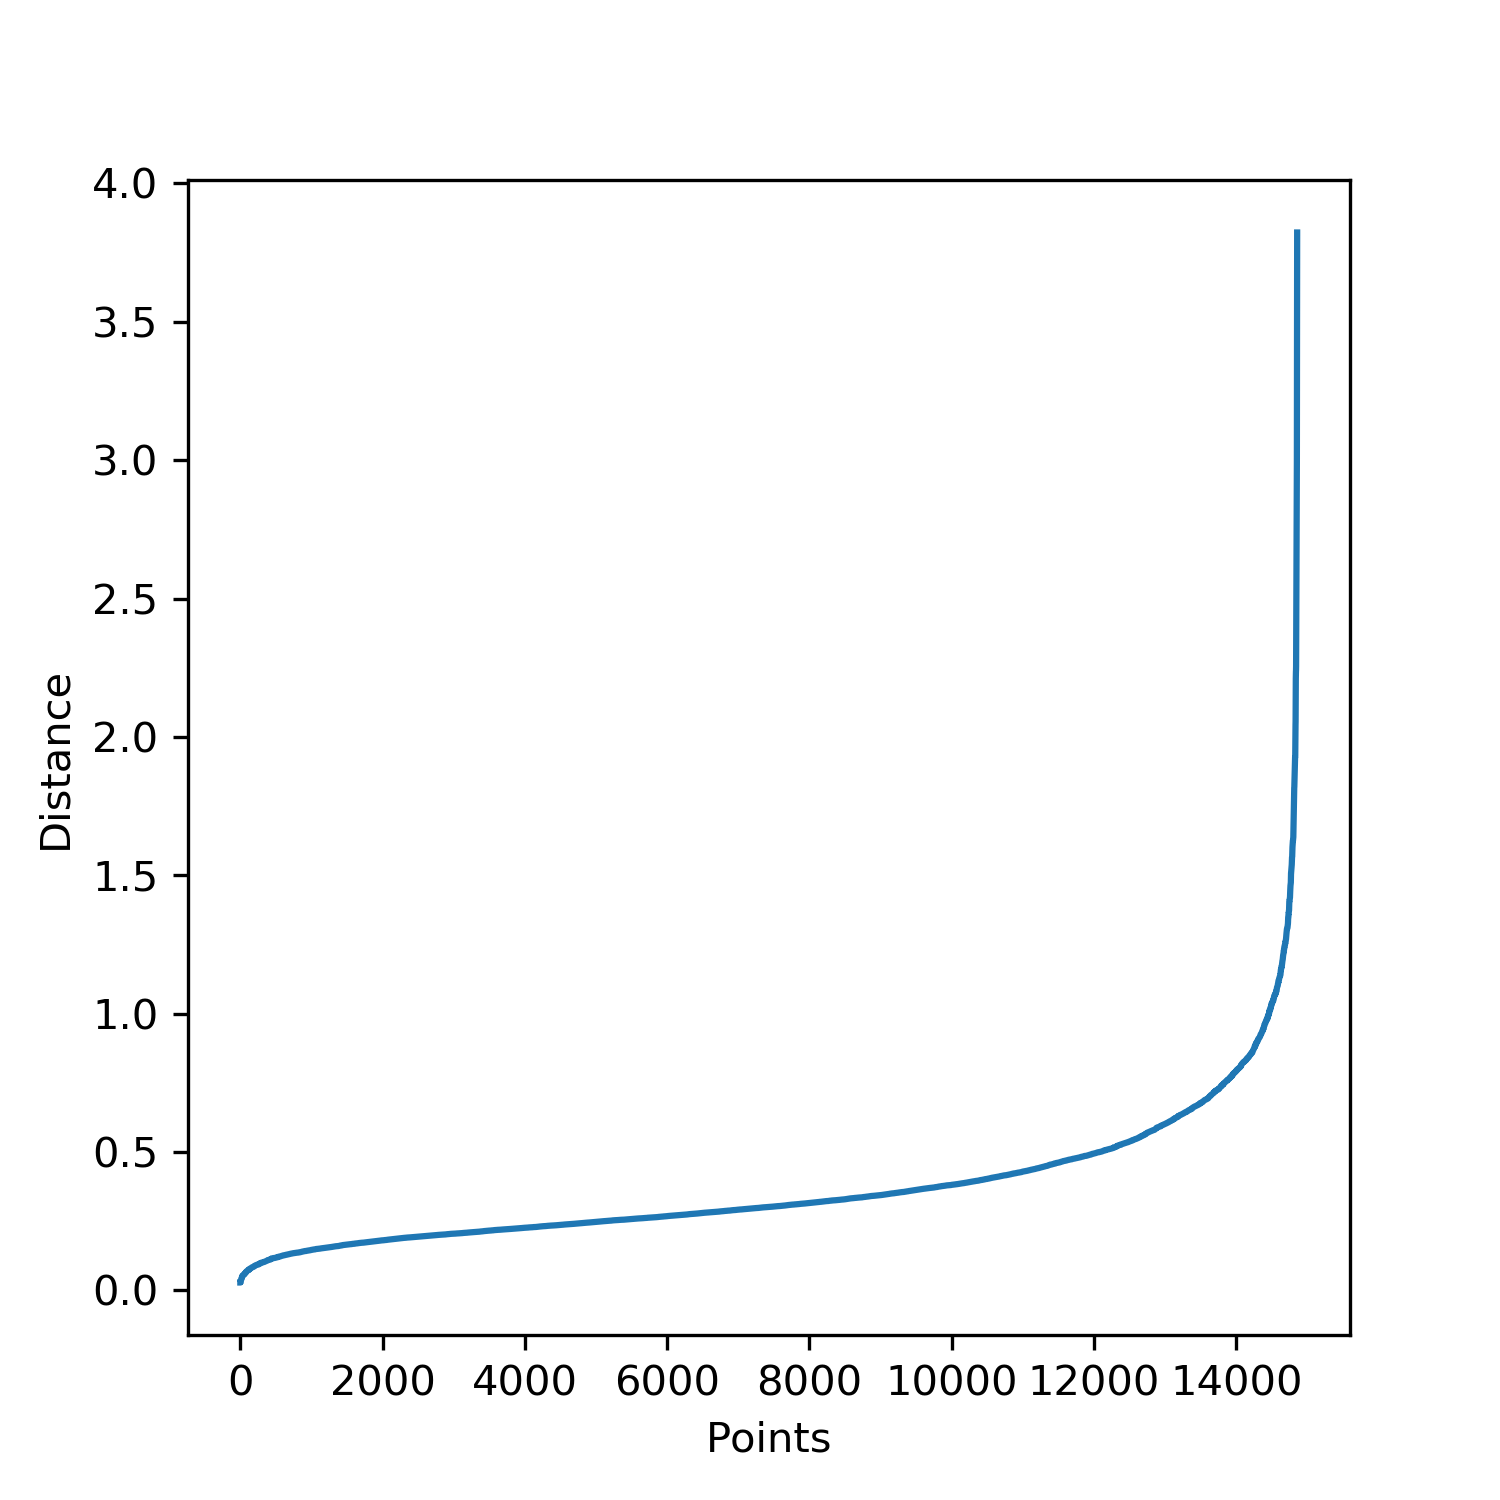
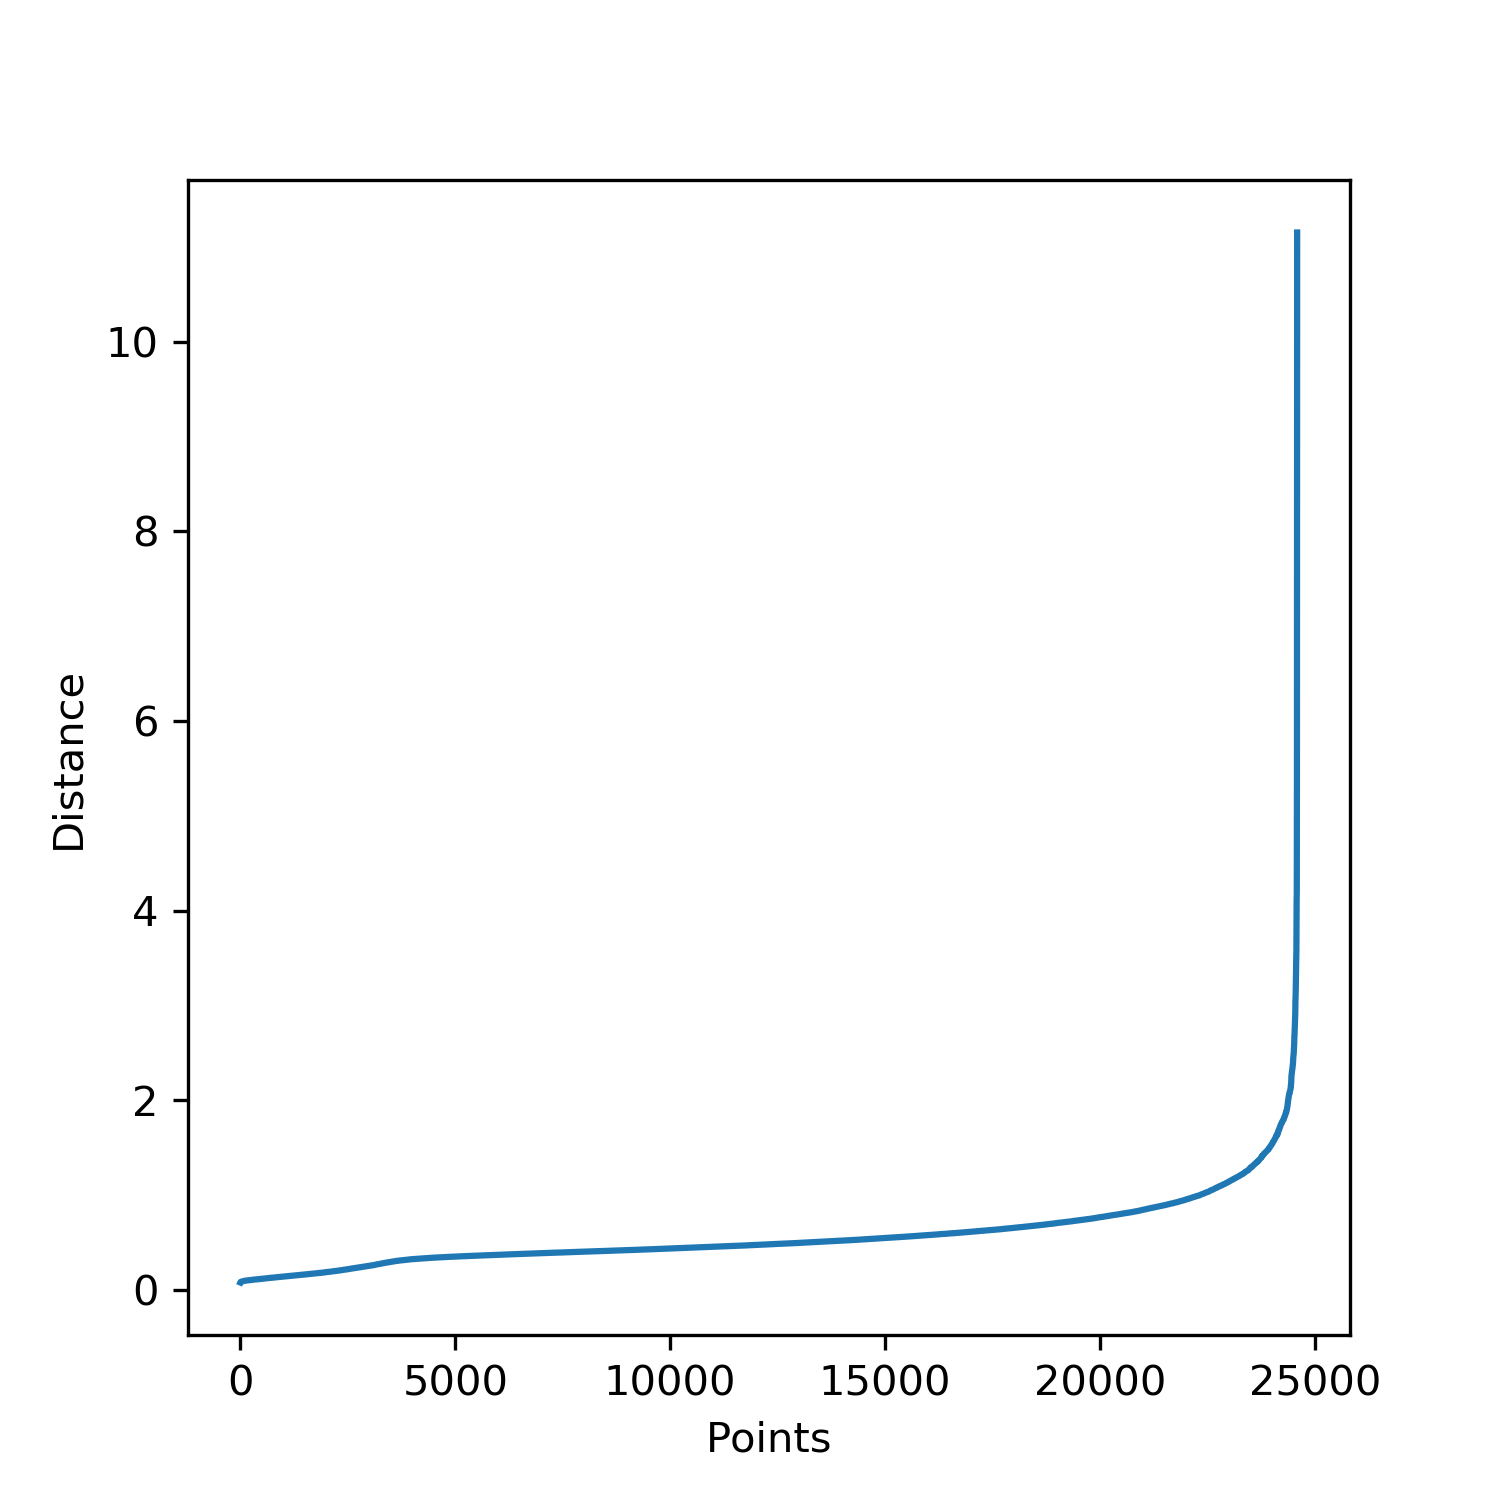
聚类直方图

diff --git a/julei/kdcluster.py b/julei/kdcluster.py
@@ -19,7 +19,7 @@ import imageio
 
 np.random.seed(8)
 
-data = np.loadtxt('NGC7142.txt')
+data = np.loadtxt('NGC6791.txt')
 print(len(data))
 #data = data[data[:,2]>0]
 #data = data[data[:,2]<1]
@@ -49,8 +49,9 @@ tempones = np.ones(11,dtype = np.uint)
 sumtemp = np.dot(tempdistance, tempones)
 
 
-distances = np.sort(distances[:,1], axis=0)
+distances = np.sort(distances[:,10], axis=0)
 #distances = np.sort(sumtemp/10, axis=0)
+plt.plot(0)
 fig = plt.figure(figsize=(5, 5))
 plt.plot(distances)
 plt.xlabel("Points")
@@ -69,4 +70,10 @@ plt.ylabel("Distance")
 
 print(distances[knee.knee])
 
-plt.text(13092, 0.56, 'eps=0.6', color = "b", style = "italic", weight = "light", verticalalignment='center', horizontalalignment='left',rotation=0) #给散点加标签
+plt.text(13279, 0.90, 'eps=0.97', color = "b", style = "italic", weight = "light", verticalalignment='center', horizontalalignment='left',rotation=0) #给散点加标签
+
+
+plt.figure(10)
+plt.hist(np.around(distances,3), bins=700, density = 0, facecolor='blue', alpha=0.5)
+plt.xlabel("Distance")
+plt.ylabel("Points")

diff --git a/julei/DBSCANparameter.py b/julei/DBSCANparameter.py
@@ -19,7 +19,7 @@ from sklearn import metrics
 from sklearn.neighbors import NearestNeighbors
 np.random.seed(8)
 
-data = np.loadtxt('NGC7142.txt')
+data = np.loadtxt('NGC6791.txt')
 print(len(data))
 #data = data[data[:,2]>0]
 #data = data[data[:,2]<1]
